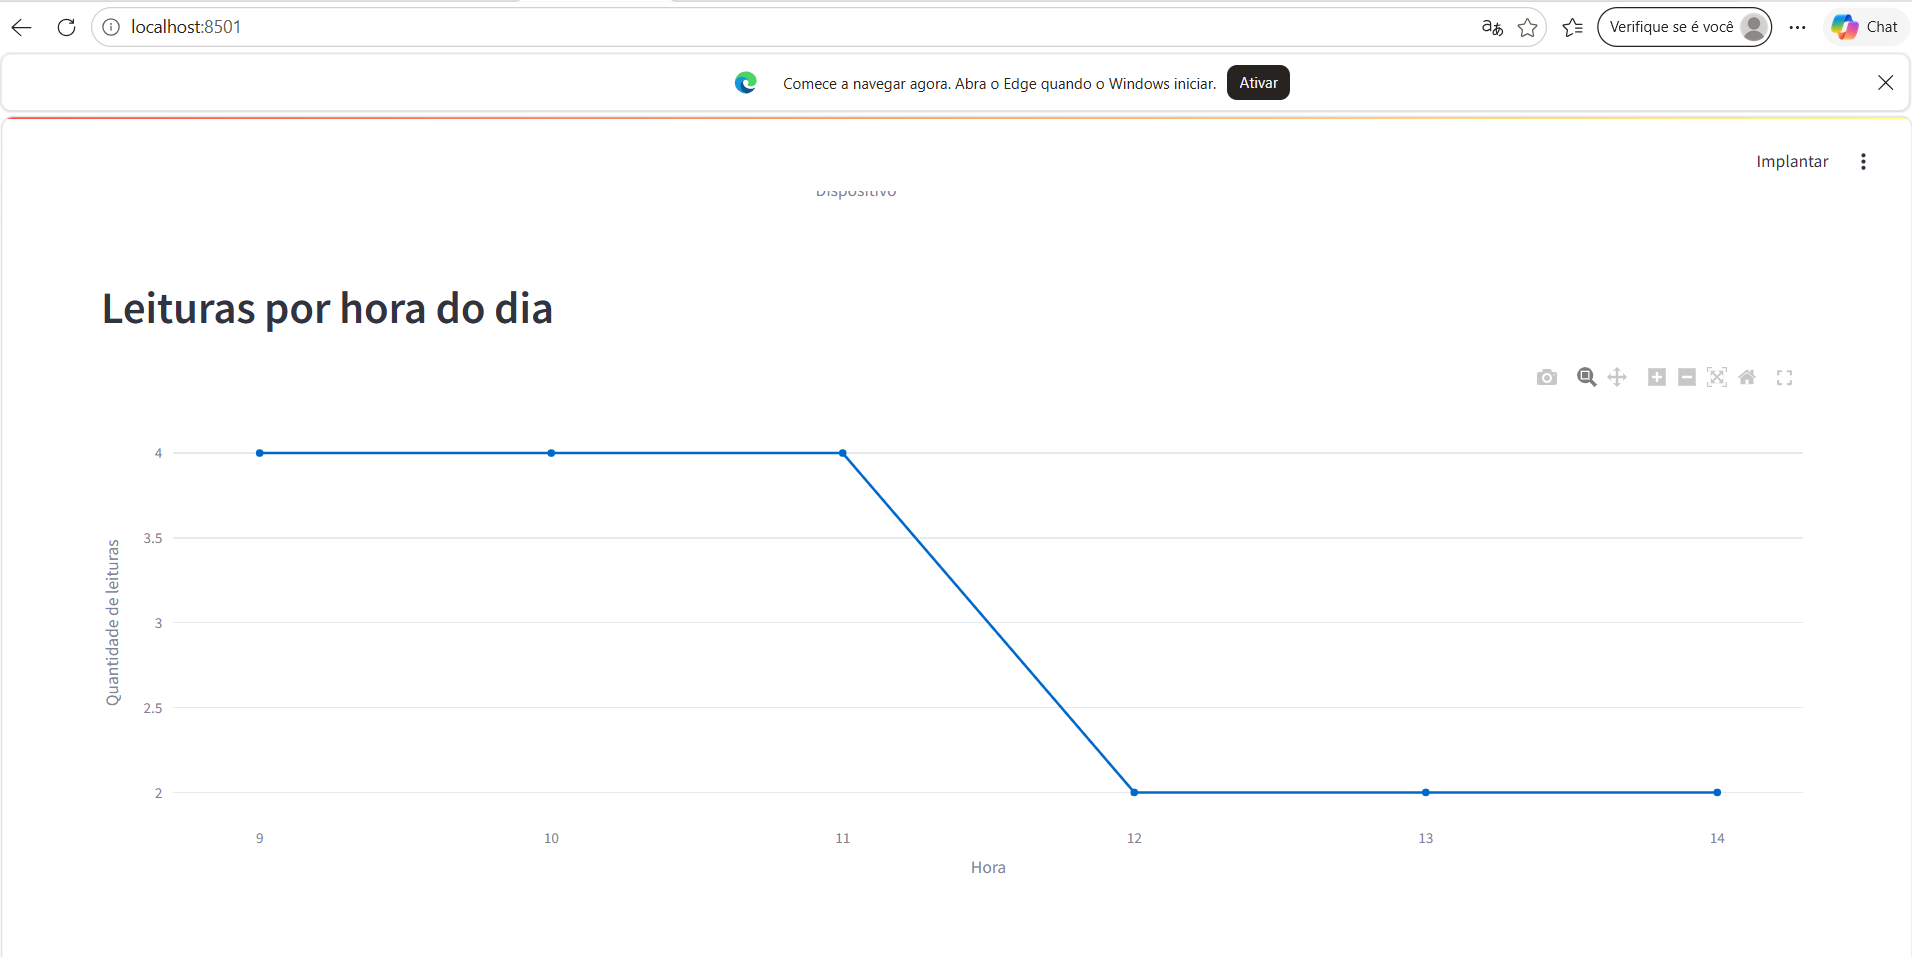
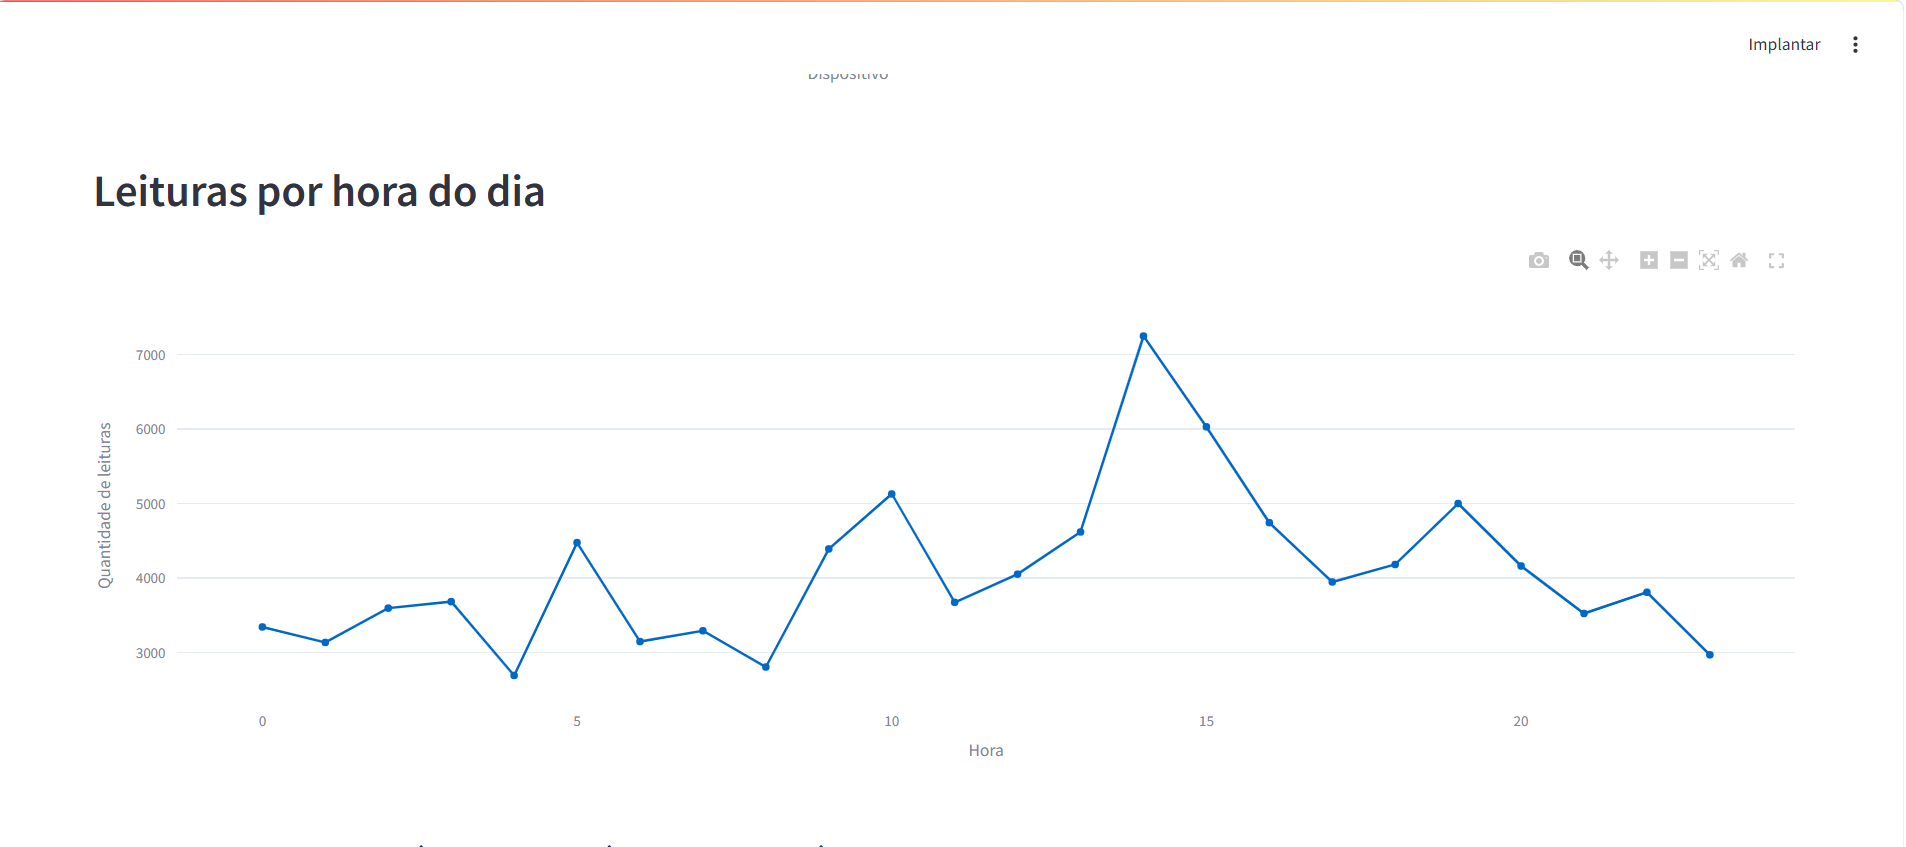
Integrate official Kaggle IoT dataset

diff --git a/src/ingest.py b/src/ingest.py
@@ -36,7 +36,8 @@ def normalize_temperature_data(csv_path: str | Path) -> pd.DataFrame:
         raise ValueError(f"Colunas obrigatorias ausentes no CSV: {missing}")
 
     normalized = df.loc[:, ["reading_id", "room_id", "noted_at", "temperature", "location"]].copy()
-    normalized["reading_id"] = pd.to_numeric(normalized["reading_id"], errors="coerce")
+    normalized["reading_id"] = normalized["reading_id"].astype("string").str.strip()
+    normalized["reading_id"] = normalized["reading_id"].replace("", pd.NA)
     normalized["temperature"] = pd.to_numeric(normalized["temperature"], errors="coerce")
     normalized["noted_at"] = pd.to_datetime(
         normalized["noted_at"],
@@ -51,8 +52,12 @@ def normalize_temperature_data(csv_path: str | Path) -> pd.DataFrame:
     )
 
     normalized = normalized.dropna(subset=["reading_id", "temperature", "noted_at"])
-    normalized["reading_id"] = normalized["reading_id"].astype("int64")
     normalized = normalized.drop_duplicates(subset=["reading_id"]).sort_values("noted_at")
+    if normalized.empty:
+        raise ValueError(
+            "Nenhum registro valido encontrado apos normalizacao. "
+            "A carga foi interrompida antes de alterar a tabela existente."
+        )
 
     return normalized[
         ["reading_id", "device_id", "room_id", "noted_at", "temperature", "location"]
@@ -80,6 +85,15 @@ def load_data(csv_path: str | Path | None = None) -> int:
 
     engine = create_engine(settings.database_url)
     data = normalize_temperature_data(source_path)
+    required_columns = {"reading_id", "device_id", "room_id", "noted_at", "temperature", "location"}
+    missing_columns = required_columns.difference(data.columns)
+    if data.empty or missing_columns:
+        missing = ", ".join(sorted(missing_columns)) or "nenhuma"
+        raise ValueError(
+            "Dados normalizados invalidos. "
+            f"Linhas: {len(data)}. Colunas ausentes: {missing}. "
+            "A carga foi interrompida antes de alterar a tabela existente."
+        )
 
     execute_sql_file(engine, SCHEMA_PATH)
     with engine.begin() as connection:

diff --git a/dashboard.py b/dashboard.py
@@ -41,7 +41,11 @@ except Exception as exc:
     st.stop()
 
 total_leituras = int(df_avg_temp["total_leituras"].sum()) if not df_avg_temp.empty else 0
-temperatura_media = float(df_resumo["temperatura_media"].mean()) if not df_resumo.empty else 0
+temperatura_media = (
+    float((df_resumo["temperatura_media"] * df_resumo["total_leituras"]).sum() / total_leituras)
+    if total_leituras and not df_resumo.empty
+    else 0
+)
 dispositivos = len(df_avg_temp)
 
 metric_col1, metric_col2, metric_col3 = st.columns(3)

diff --git a/README.md b/README.md
@@ -1,6 +1,6 @@
 # Pipeline de Dados com IoT e Docker
 
-Projeto desenvolvido para a disciplina **Disruptive Architectures: IoT, Big Data e IA**. Ele processa leituras de temperatura de dispositivos IoT, armazena os dados em PostgreSQL com Docker e disponibiliza um dashboard em Streamlit.
+Projeto desenvolvido para a disciplina **Disruptive Architectures: IoT, Big Data e IA**. Ele processa leituras reais de temperatura de dispositivos IoT, armazena os dados em PostgreSQL com Docker e disponibiliza indicadores em um dashboard Streamlit.
 
 ## Estrutura
 
@@ -30,15 +30,35 @@ Projeto desenvolvido para a disciplina **Disruptive Architectures: IoT, Big Data
 - SQLAlchemy e psycopg2-binary para conexao com o banco.
 - Streamlit e Plotly para dashboard.
 
-## Dataset
+## Dataset Oficial
 
-O dataset solicitado e **Temperature Readings: IoT Devices**, disponivel no Kaggle:
+O projeto utiliza como fonte principal o dataset **Temperature Readings: IoT Devices**, disponivel no Kaggle:
 
 https://www.kaggle.com/datasets/atulanandjha/temperature-readings-iot-devices
 
-Para testes rapidos, o projeto inclui `data/sample_temperature_readings.csv`. Se usar o CSV oficial do Kaggle, coloque o arquivo em `data/IOT-temp.csv` e ajuste `DATA_FILE` no arquivo `.env`.
+O arquivo esperado pelo pipeline e:
 
-## Configuracao do ambiente Python
+```text
+data/IOT-temp.csv
+```
+
+Como o arquivo oficial nao deve ser enviado ao GitHub, `data/IOT-temp.csv` esta protegido pelo `.gitignore`. Para reproduzir o projeto, baixe o dataset no Kaggle, extraia somente o arquivo `IOT-temp.csv` e coloque-o dentro da pasta `data/`.
+
+O CSV oficial possui:
+
+- 97.606 registros originais.
+- 1 `reading_id` duplicado.
+- 97.605 registros unicos apos deduplicacao.
+- Temperaturas entre 21 °C e 51 °C.
+- Temperatura media de 35,053860 °C.
+- Periodo de 28/07/2018 07:06 ate 08/12/2018 09:30.
+- 20.345 leituras `In`.
+- 77.260 leituras `Out`.
+- 1 room/dispositivo normalizado como `room_admin`.
+
+O projeto tambem mantem `data/sample_temperature_readings.csv` apenas como amostra pequena de referencia estrutural. A base principal do projeto final e o arquivo oficial `IOT-temp.csv`.
+
+## Configuracao do Ambiente Python
 
 No Windows, crie o ambiente virtual com Python 3.12:
 
@@ -71,6 +91,12 @@ Copie o arquivo de exemplo de variaveis de ambiente:
 copy .env.example .env
 ```
 
+Configure o arquivo `.env` para usar o dataset oficial:
+
+```env
+DATA_FILE=data/IOT-temp.csv
+```
+
 Nao envie o arquivo `.env` para o GitHub. Ele esta protegido pelo `.gitignore`.
 
 ## PostgreSQL com Docker
@@ -89,31 +115,62 @@ docker compose ps
 
 O esperado e que o container `postgres-iot` esteja `Up` e com health `healthy`, publicando a porta `5432`.
 
-## Ingestao dos dados
+## Ingestao dos Dados
 
-Execute a ingestao:
+Execute a ingestao oficial:
 
 ```powershell
 python -m src.ingest
 ```
 
-Com o CSV de exemplo, a saida esperada e:
+Com `DATA_FILE=data/IOT-temp.csv`, a saida esperada e:
 
 ```text
-18 leituras carregadas no PostgreSQL com sucesso.
+97605 leituras carregadas no PostgreSQL com sucesso.
 ```
 
-Os dados sao carregados na tabela `temperature_readings`. Antes da insercao, o script recria a estrutura SQL necessaria e limpa a tabela para manter a execucao reprodutivel.
+Antes da insercao, o script valida e normaliza o CSV. O pipeline remove registros invalidos, preserva `reading_id` como texto, remove duplicados por `reading_id` e so substitui a tabela se houver dados normalizados validos.
 
-## Validacao opcional no PostgreSQL
+## Validacao no PostgreSQL
 
-Para confirmar a quantidade de registros com uma consulta somente leitura:
+Para confirmar a carga oficial:
 
 ```powershell
-docker exec postgres-iot psql -U iot_user -d iot_db -c "SELECT COUNT(*) AS total_registros FROM temperature_readings;"
+docker exec postgres-iot psql -U iot_user -d iot_db -c "SELECT COUNT(*) AS total_registros, COUNT(DISTINCT reading_id) AS ids_unicos, MIN(temperature) AS temp_min, MAX(temperature) AS temp_max, ROUND(AVG(temperature), 6) AS temp_media, MIN(noted_at) AS primeira_leitura, MAX(noted_at) AS ultima_leitura FROM temperature_readings;"
 ```
 
-Com o CSV de exemplo, o resultado esperado e `18`.
+Resultado validado no projeto:
+
+- total de registros: 97.605
+- IDs unicos: 97.605
+- temperatura minima: 21 °C
+- temperatura maxima: 51 °C
+- temperatura media: 35,053860 °C
+- primeira leitura: 2018-07-28 07:06:00
+- ultima leitura: 2018-12-08 09:30:00
+
+## Schema
+
+A tabela principal e `temperature_readings`, definida em `sql/schema.sql`:
+
+- `reading_id TEXT PRIMARY KEY`: identificador unico da leitura.
+- `device_id TEXT NOT NULL`: identificador normalizado a partir do room.
+- `room_id TEXT`: room original do dataset.
+- `noted_at TIMESTAMP NOT NULL`: data e hora da leitura.
+- `temperature NUMERIC(5, 2) NOT NULL`: temperatura registrada.
+- `location TEXT NOT NULL`: ambiente da leitura (`In` ou `Out`).
+- `created_at TIMESTAMP NOT NULL DEFAULT CURRENT_TIMESTAMP`: data de insercao no banco.
+
+## Views Analiticas
+
+As views estao em `sql/views.sql`:
+
+- `avg_temp_por_dispositivo`: calcula a temperatura media e o total de leituras por dispositivo.
+- `leituras_por_hora`: agrupa as leituras por hora do dia e calcula a temperatura media por hora.
+- `temp_max_min_por_dia`: mostra temperatura maxima, minima e media por data.
+- `resumo_por_ambiente`: resume quantidade, media, minima e maxima por ambiente `In` e `Out`.
+
+Todas as quatro views foram validadas com o dataset oficial carregado no PostgreSQL.
 
 ## Dashboard Streamlit
 
@@ -123,29 +180,45 @@ Execute o dashboard:
 streamlit run dashboard.py
 ```
 
-O dashboard apresenta:
+O dashboard validado com o dataset oficial apresenta:
 
-- total de leituras;
-- quantidade de dispositivos;
-- temperatura media geral;
-- media de temperatura por dispositivo;
-- leituras por hora do dia;
-- temperaturas maximas, minimas e medias por dia;
-- resumo por ambiente interno e externo.
+- 97.605 leituras.
+- 1 dispositivo/room.
+- temperatura media geral de aproximadamente 35,1 °C.
+- grafico de media de temperatura por dispositivo.
+- grafico de leituras por hora do dia.
+- grafico de temperaturas maximas, minimas e medias por dia.
+- tabela de resumo por ambiente:
+  - `In`: 20.345 leituras, media 30,45 °C.
+  - `Out`: 77.260 leituras, media 36,27 °C.
 
-## Banco, tabela e views
+## Insights dos Dados
 
-A tabela principal e `temperature_readings`, definida em `sql/schema.sql`.
+- As leituras externas sao maioria no dataset oficial.
+- A media de temperatura `Out` e superior a media `In`.
+- As temperaturas variam de 21 °C a 51 °C.
+- Apos a remocao de 1 duplicado, existem 97.605 leituras validas.
+- O dataset possui apenas um room/dispositivo identificado como `room_admin`.
 
-As views analiticas estao em `sql/views.sql`:
+## Documentacao e Evidencias
 
-- `avg_temp_por_dispositivo`: media de temperatura e total de leituras por dispositivo.
-- `leituras_por_hora`: quantidade de leituras e temperatura media por hora do dia.
-- `temp_max_min_por_dia`: temperatura maxima, minima e media por data.
-- `resumo_por_ambiente`: estatisticas por ambiente interno ou externo.
+As evidencias visuais atualizadas estao em `docs/screenshots/`:
 
-## Documentacao e evidencias
+- `01-docker-postgres-healthy.png`: Docker/PostgreSQL em execucao.
+- `02-postgresql-97605-registros.png`: validacao SQL com 97.605 registros e estatisticas oficiais.
+- `03-dashboard-visao-geral.png`: visao geral do dashboard com 97.605 leituras.
+- `04-dashboard-leituras-por-hora.png`: grafico de leituras por hora.
+- `05-dashboard-temperaturas-por-dia.png`: grafico de temperaturas por dia.
+- `06-dashboard-resumo-ambiente.png`: resumo por ambiente `In` e `Out`.
 
-As evidencias visuais do funcionamento estao em `docs/screenshots/`.
+## Seguranca e Arquivos Ignorados
 
-As evidencias incluem validacao do Docker/PostgreSQL, consulta com 18 registros e telas do dashboard Streamlit.
+O `.gitignore` protege arquivos locais e sensiveis:
+
+- `.env`: credenciais e configuracoes locais.
+- `.venv/`: ambiente virtual Python.
+- `.streamlit/secrets.toml`: segredos locais do Streamlit.
+- `data/IOT-temp.csv`: dataset oficial baixado do Kaggle.
+- `data/*.sqlite`: bases locais auxiliares, se existirem.
+
+Assim, nenhum segredo local nem o arquivo grande do dataset oficial devem ser enviados ao repositorio.
